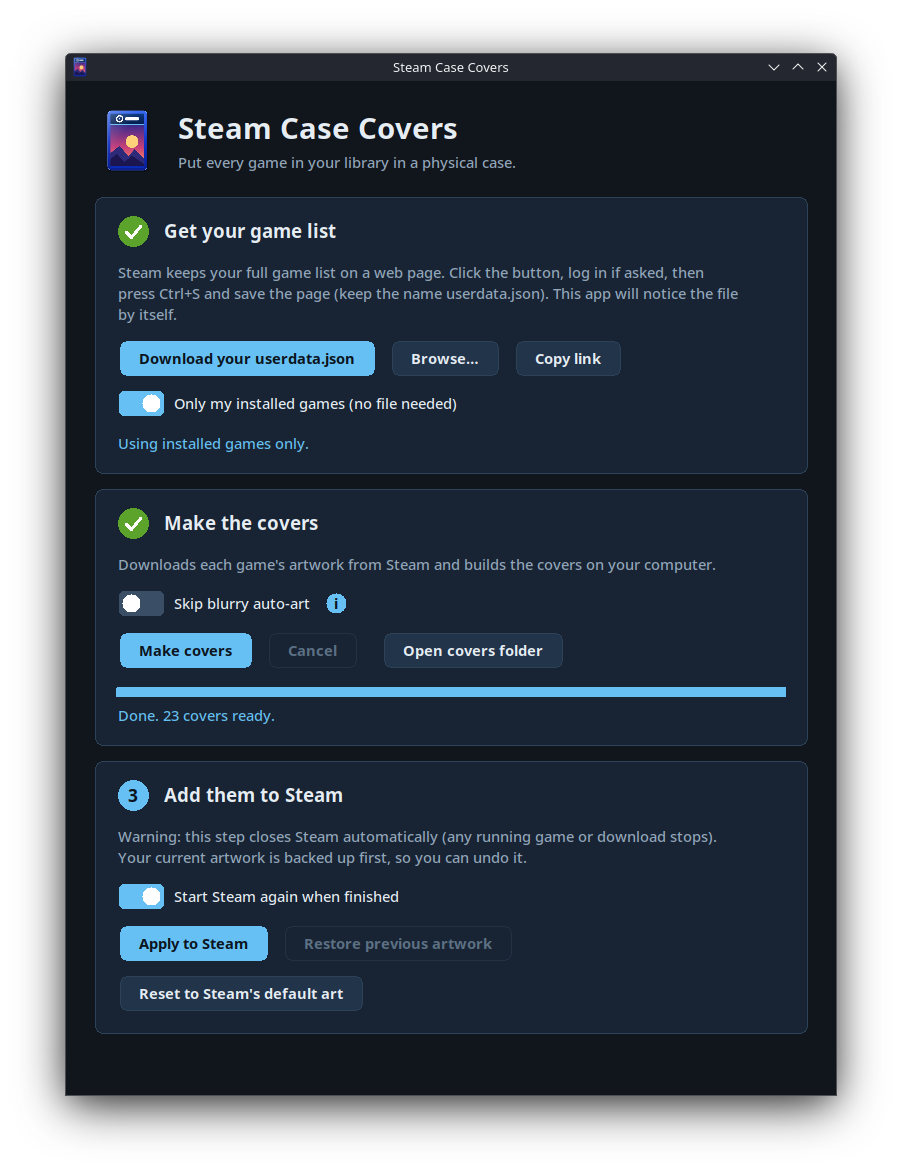
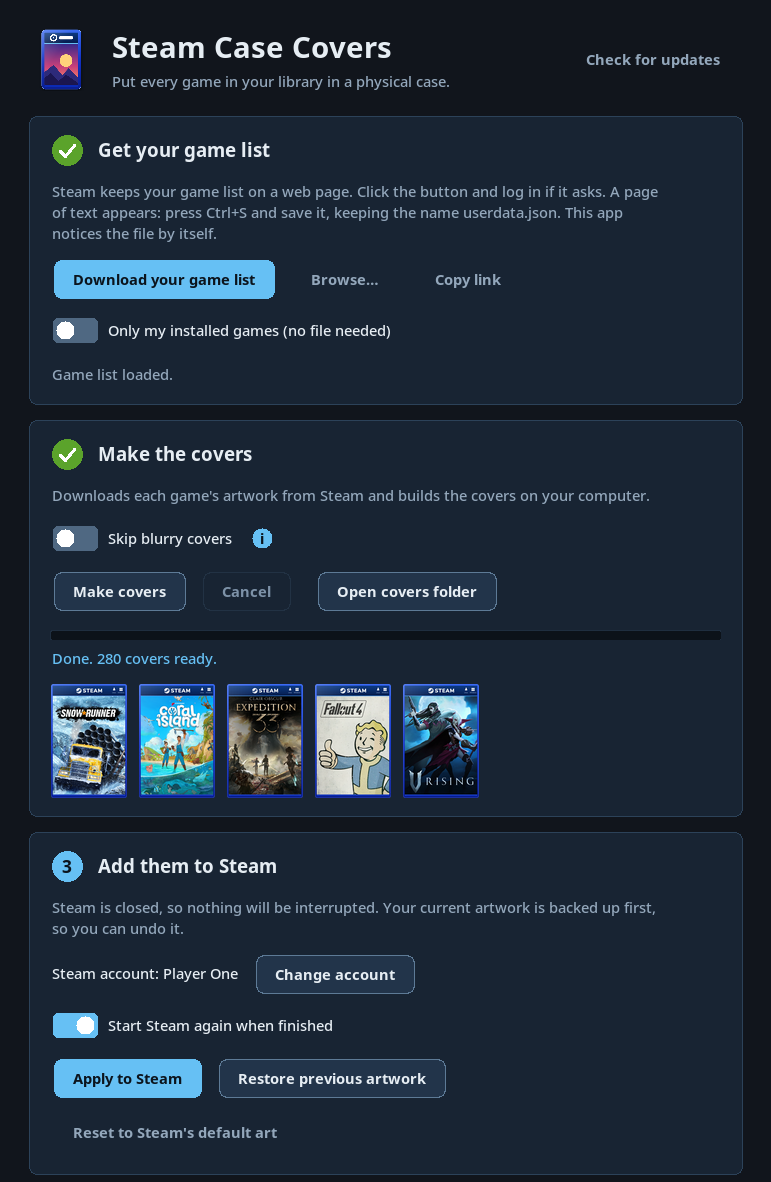
docs: README for accounts, reset of other art and the new window
Describes the account picker, Reset's remove-all choice, reset --everything, the wider set of portrait files that Apply moves, and the new wording. New window screenshot with a placeholder account name.

diff --git a/README.md b/README.md
@@ -116,7 +116,7 @@ Release files come with a `SHA256SUMS` list so you can check what you downloaded
 
 1. **Get your game list.** Click **Download your game list**. Your browser opens Steam: log in if it asks, and you'll land on a page of plain text. Save it (Ctrl+S, or Cmd+S on a Mac) as `userdata.json`. The app notices the file by itself. No browser opening? Click **Copy link** and paste it yourself. Or tick **Only my installed games** to skip this step. On a Mac with Safari, set the format to **Page Source** when saving (or use Chrome or Firefox).
 2. **Make the covers.** Click **Make covers** and wait. You can cancel and run it again later: finished covers are kept, so it picks up where it stopped.
-3. **Add them to Steam.** Click **Apply to Steam**.
+3. **Add them to Steam.** Click **Apply to Steam**. If more than one Steam account is on this computer, the window shows which one will change; click **Change account** to pick another.
 
 > [!WARNING]
 > Step 3 **closes Steam for you** (any running game stops and downloads pause), adds the covers, and starts Steam again. Save your game first. The app asks before it does anything.
@@ -124,7 +124,7 @@ Release files come with a `SHA256SUMS` list so you can check what you downloaded
 Changed your mind?
 
 * **Restore previous artwork** undoes the last Apply. Press it again to go one step further back.
-* **Reset to Steam's default art** removes the covers this app made and leaves any art you set yourself alone. It works even if you have no backup. It's undone with Restore.
+* **Reset to Steam's default art** removes the covers this app made. It works even if you have no backup. If it also finds custom art that this app did not make (from SteamGridDB, or set by hand in Steam), it asks whether to remove that too: **Remove only ours** keeps it, **Remove all** brings back Steam's own art everywhere. Restore undoes either.
 
 ## Features
 
@@ -133,14 +133,15 @@ Changed your mind?
 ✅ One click to install them: Steam is closed gracefully, backed up, updated and restarted <br>
 ✅ Undo, step by step, and a reset to Steam's default art <br>
 ✅ Cancel anytime; run again to continue <br>
-✅ Optional "skip blurry auto-art" for games Steam has no real portrait for <br>
+✅ Optional "skip blurry covers" for games Steam has no real portrait for <br>
+✅ Several Steam accounts on one computer: you choose which one gets the covers <br>
 ✅ Works with the keyboard, scales on high-DPI screens and fits small screens like the Steam Deck's <br>
 ✅ A "Check for updates" button, only when you click it: it asks GitHub for the newest version and never downloads or installs anything
 ✅ Free software: no ads, no account, no telemetry
 
 ## Safety
 
-* It only ever touches the `<appid>p.png` files in your Steam account's `config/grid` folder. It never touches your games or saves.
+* It only ever touches the portrait files (`<appid>p.png`, and `.jpg`, `.jpeg` or `.webp` ones that would hide a cover) in your Steam account's `config/grid` folder. Anything it moves is kept in the backup. It never touches your games or saves.
 * Before every change it makes a backup of exactly what it changes, writes files atomically, and rolls back if anything fails.
 * Two open windows can't change Steam's folder at the same time.
 * It never logs in, never asks for a password or API key, never uploads anything and never runs with elevated rights.
@@ -166,6 +167,7 @@ python steamcase.py make --library userdata.json   # build covers
 python steamcase.py apply --close-steam            # install them
 python steamcase.py restore                        # undo the last apply
 python steamcase.py reset                          # back to Steam's default art
+python steamcase.py reset --everything             # ...also removing art from other sources
 ```
 
 | Command | What it does |
@@ -175,9 +177,9 @@ python steamcase.py reset                          # back to Steam's default art
 | `apply` | Copy covers into Steam, with a backup |
 | `run` | `make` then `apply` |
 | `restore` | Undo the last apply (run again to go further back) |
-| `reset` | Remove the covers this app made from Steam |
+| `reset` | Remove the covers this app made from Steam (`--everything` also removes custom art from other sources) |
 
-Run `python steamcase.py -h` for all options, such as `--only`, `--skip-auto-art`, `--steam-dir` and `--user`.
+Run `python steamcase.py -h` for all options, such as `--only`, `--skip-auto-art`, `--steam-dir` and `--user` (the account's folder number in Steam's `userdata`, to pick one of several accounts).
 
 ## FAQ
 
@@ -198,7 +200,7 @@ Many older or smaller games have no real portrait on Steam. Steam builds a stand
 <details>
 <summary><b>I set custom art by hand in Steam. Will these replace it?</b></summary>
 
-Custom art set by hand in Steam's own menu can override these covers. If a game still shows its old art, reset it there (right-click the game, **Manage**, **Set custom artwork**).
+Steam shows art you set by hand (or got from SteamGridDB) before these covers. **Apply to Steam** moves such art for the covered games into the backup, so the case is shown, and **Restore** brings it back. To clear all of it and get Steam's own art, use **Reset to Steam's default art** and choose **Remove all**.
 
 </details>
 
